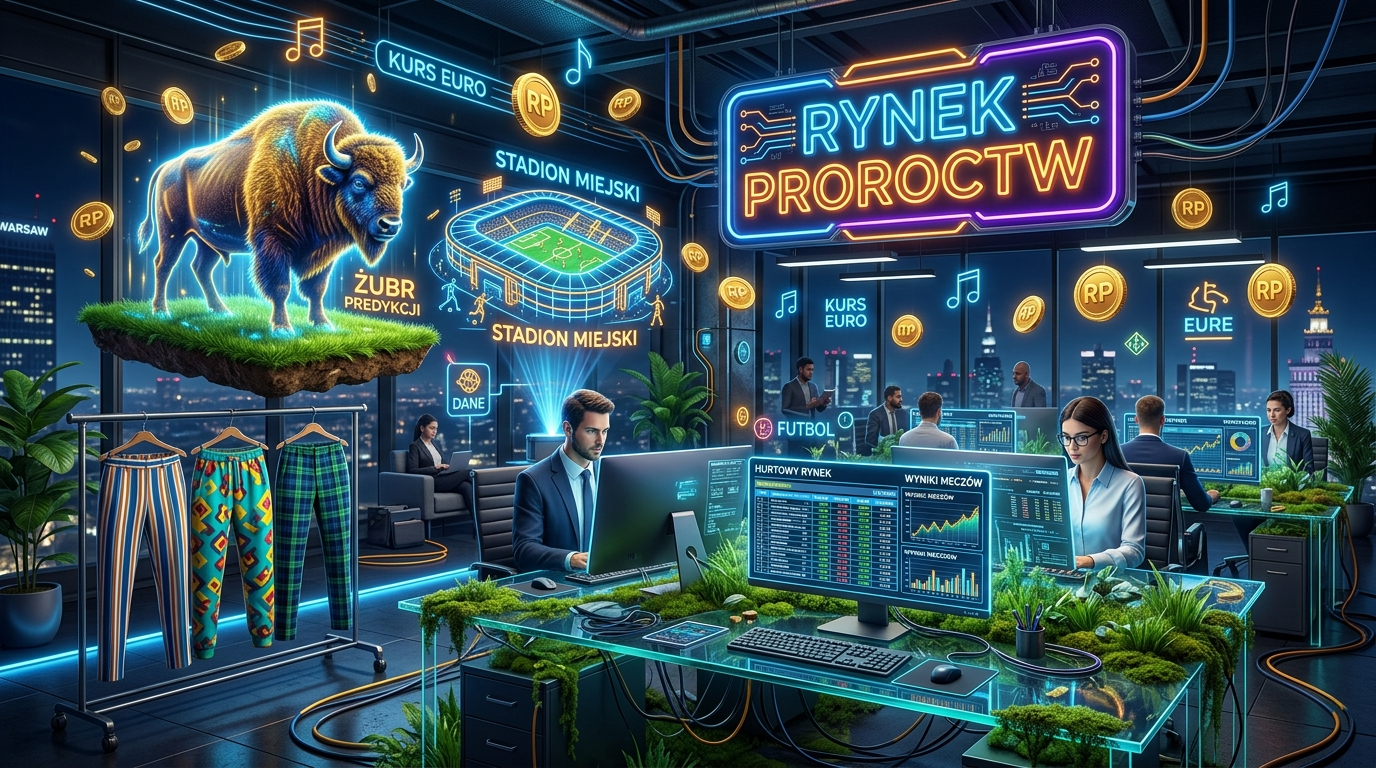
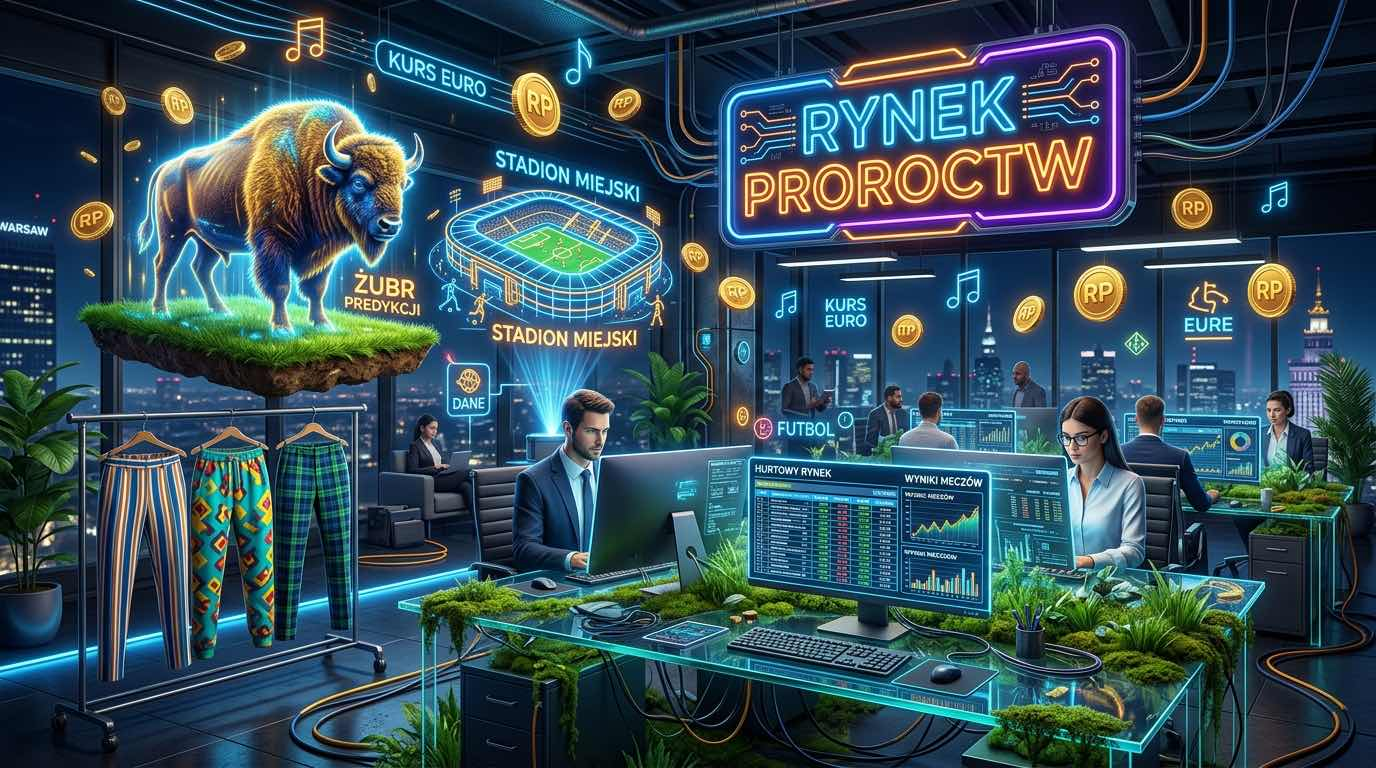
Cut three sources of per-page and per-event overhead
Investigated a report that the app felt slower. The shell itself had not
regressed — parse+execute and forced layout measure the same as two weeks
ago (53ms vs 55ms, 13.1ms vs 13.7ms), the DB is tiny, and there are no timer
or realtime-channel leaks. The cost was elsewhere:

Login hero: re-encoded 1,099,904 -> 150,735 bytes (86% smaller, same
1376x768). It is a decorative background at opacity .65 behind an overlay,
so the quality drop is not visible. More importantly it was a static
<img src> in the initial HTML, so the preload scanner fetched it during
parse — long before sb.auth.getSession() resolves — and every already
-logged-in visit paid for an image it never displays. It now loads from
data-src via showLoginScreen(); verified 0 network requests on the
logged-in path, image still renders on the logged-out one.

Presence heartbeat: chat_heartbeat() wrote last_seen on every 25s beat,
and chat_presence is realtime-published with the client on event:'*' — so
every beat was RLS-evaluated and broadcast to every connected client
(N users => N^2/25 msg/s), all discarded on arrival since chatOnPresence()
early-returns when `online` did not change. supabase/chat-presence-quiet.sql
moves last_seen to an unpublished chat_presence_beats table and makes
chat_presence writes flip-only. Already applied to prod; verified live that
beats churn while chat_presence.n_tup_upd stays flat, and that a user going
stale still produces exactly one flip. No frontend change needed.
[…]

diff --git a/index.html b/index.html
@@ -8067,7 +8067,8 @@
     <!-- Left Column: Hero Visual Showcase with customized company lore graphic -->
     <div class="login-hero-showcase">
       <div class="login-hero-overlay"></div>
-      <img src="./login_hero.jpg" alt="Rynek Proroctw G6 Custom Lore" class="login-hero-img">
+      <!-- src is promoted from data-src by showLoginScreen() — see the comment there. -->
+      <img data-src="./login_hero.jpg" alt="Rynek Proroctw G6 Custom Lore" class="login-hero-img">
       <div class="login-hero-content">
         <span class="hero-badge">🔮 Platforma Predykcyjna G6</span>
         <h2 class="hero-title">Witaj na firmowym parkiecie proroctw.</h2>
@@ -11023,6 +11024,13 @@ let markets = [];
 let tradesByMarket = {};
 let myPositionsByMarket = {};
 let marketRenderSeq = 0;
+// Set when a realtime market/trade change arrives while the Rynki tab is NOT
+// showing. renderMarkets() costs a `positions` round-trip plus a full rebuild of
+// every card (each with its own lightweight-charts instance), and every trade by
+// anyone used to trigger one on every client regardless of tab. The in-memory
+// state (markets[] / tradesByMarket) is still updated eagerly — only the render
+// is deferred, and switchTab('markets') flushes it. See flushMarketsIfDirty().
+let marketsDirty = false;
 let activeSide = 'YES';
 let activeMarket = null;
 let realtimeChannels = [];
@@ -11546,6 +11554,23 @@ function makeSpinner() {
   return el('div', { className: 'loading-center' }, el('div', { className: 'spinner' }));
 }
 
+// Reveal the login screen, fetching its hero image on first use.
+//
+// The hero is a purely decorative background (opacity .65 behind an overlay), but
+// it lives in the initial HTML — so the preload scanner used to fetch it during
+// parse, long before `sb.auth.getSession()` resolves. Every already-logged-in
+// visit therefore paid for an image it never displays. Holding the URL in
+// `data-src` and promoting it to `src` only here means returning players never
+// download it at all; the showcase's own `background: #090d16` is the intended
+// backdrop while it loads, so there is nothing to flash.
+function showLoginScreen() {
+  const heroImg = screenLogin.querySelector('.login-hero-img');
+  if (heroImg && !heroImg.getAttribute('src') && heroImg.dataset.src) {
+    heroImg.src = heroImg.dataset.src;
+  }
+  show(screenLogin);
+}
+
 // ── DOM refs ──────────────────────────────────────────────────────────────
 const screenLogin     = document.getElementById('screen-login');
 const screenApp       = document.getElementById('screen-app');
@@ -11854,7 +11879,7 @@ let forcePinUser = null;
 function startForcePin(user) {
   forcePinUser = user;
   hide(screenApp);
-  show(screenLogin);
+  showLoginScreen();
   switchLoginMode('forcepin');
   const nf = document.getElementById('force-new-pin');
   if (nf) nf.focus();
@@ -11886,7 +11911,7 @@ async function initSession(user) {
     await sb.auth.signOut();
     me = null;
     hide(screenApp);
-    show(screenLogin);
+    showLoginScreen();
     loginError.textContent = 'Nie udało się wczytać profilu. Spróbuj zalogować się ponownie.';
     await loadNickList();
     return;
@@ -11909,7 +11934,7 @@ async function doLogout() {
   resetChatState();
   teardownRealtime();
   await sb.auth.signOut();
-  me = null; markets = []; tradesByMarket = {}; myPositionsByMarket = {};
+  me = null; markets = []; tradesByMarket = {}; myPositionsByMarket = {}; marketsDirty = false;
   pokerState = null; pokerRealtimeReady = false; stopPokerClock();
   rouletteState = null; rouletteRealtimeReady = false; rouletteLastResultId = null; stopRouletteHeartbeat();
   rouletteLocalBets = null; if (rouletteFlushTimer) { clearTimeout(rouletteFlushTimer); rouletteFlushTimer = null; }
@@ -11931,7 +11956,7 @@ async function doLogout() {
   loginError.textContent = '';
   switchLoginMode('login');
   await loadNickList();
-  show(screenLogin);
+  showLoginScreen();
 }
 
 // ── Login event listeners ─────────────────────────────────────────────────
@@ -12609,6 +12634,7 @@ function switchTab(tab) {
   if (tab === 'markets') {
     show(tM); hide(tL); hide(tP); hide(tR); hide(tSl); hide(tWb); hide(tS); hide(tG);
     if (markets.length === 0) loadMarkets();
+    else flushMarketsIfDirty();   // catch up on trades that landed while away
   } else if (tab === 'leaderboard') {
     hide(tM); show(tL); hide(tP); hide(tR); hide(tSl); hide(tWb); hide(tS); hide(tG);
     loadLeaderboard();
@@ -13287,7 +13313,17 @@ async function loadMarkets() {
   await renderMarkets();
 }
 
+// Render the Rynki grid only if a realtime change landed while it was hidden.
+// Called on entry to the tab, which is the moment the deferred work becomes
+// worth paying for.
+function flushMarketsIfDirty() {
+  if (!marketsDirty) return;
+  marketsDirty = false;
+  renderMarkets();
+}
+
 async function renderMarkets() {
+  marketsDirty = false;
   const renderSeq = ++marketRenderSeq;
   const marketsSnapshot = markets.slice();
 
@@ -13879,17 +13915,19 @@ function setupRealtime() {
       if (payload.eventType === 'INSERT') {
         if (!markets.find(m => m.id === payload.new.id)) {
           markets.push(payload.new);
-          await renderMarkets();
+          if (activeTab === 'markets') await renderMarkets(); else marketsDirty = true;
         }
       } else if (payload.eventType === 'UPDATE') {
         const idx = markets.findIndex(m => m.id === payload.new.id);
         if (idx !== -1) markets[idx] = { ...markets[idx], ...payload.new };
         if (payload.new.resolved) {
+          // A resolution pays out, so the coin balance in the header really can
+          // change for anyone — that refresh stays unconditional.
           await refreshMeCoins();
-          await renderMarkets();
+          if (activeTab === 'markets') await renderMarkets(); else marketsDirty = true;
           return;
         }
-        updateCardProb(payload.new);
+        if (activeTab === 'markets') updateCardProb(payload.new); else marketsDirty = true;
       }
     })
     .on('postgres_changes', { event: 'INSERT', schema: 'public', table: 'trades' }, async payload => {
@@ -13906,6 +13944,9 @@ function setupRealtime() {
         amount: t.amount,
         shares: t.shares,
       });
+      // State above is kept current on every tab so the grid is correct the
+      // moment it is shown; the expensive render below is not.
+      if (activeTab !== 'markets') { marketsDirty = true; return; }
       updateCardChart(t.market_id);
       await renderMarkets();
     })
@@ -13989,9 +14030,14 @@ function setupRealtime() {
     .on('postgres_changes', { event: '*', schema: 'public', table: 'football_matches' }, () => {
       if (activeTab === 'football') loadFootball(false);
     })
-    .on('postgres_changes', { event: '*', schema: 'public', table: 'football_bets' }, async () => {
+    .on('postgres_changes', { event: '*', schema: 'public', table: 'football_bets' }, async payload => {
       if (activeTab === 'football') loadFootball(false);
-      await refreshMeCoins();
+      // football_bets is SELECT-able by everyone (`USING (true)`), so realtime
+      // hands every client every player's bets. Only MY row can move MY balance
+      // — placing a bet debits, settling credits — so refreshing the header on
+      // someone else's bet was a round-trip that could never change anything.
+      const row = payload.new || payload.old;
+      if (row && row.user_id === me?.id) await refreshMeCoins();
     })
     .on('postgres_changes', { event: '*', schema: 'public', table: 'canvas_pixels' }, (payload) => {
       applyCanvasPixelChange(payload.new);
@@ -35620,7 +35666,7 @@ startUpdateChecker();
     }
   } else {
     await loadNickList();
-    show(screenLogin);
+    showLoginScreen();
   }
 })();
 </script>

diff --git a/CLAUDE.md b/CLAUDE.md
@@ -45,7 +45,8 @@ Deep-dive design docs that don't need to load on every task live in `docs/` — 
 - `supabase/canvas.sql` — „Wspólne Płótno" collaborative pixel canvas; adds `canvas_pixels` (one shared 192×108 board, public SELECT) + `canvas_cooldowns` (own-row SELECT, now unused) tables, realtime publication on `canvas_pixels`, and the original `place_pixel(x,y,color)` SECURITY DEFINER RPC (its per-user cooldown is superseded — see `canvas-free-for-all.sql`). Idempotent (`CREATE TABLE IF NOT EXISTS` / `CREATE OR REPLACE`); the bounds (192×108) live in the RPC and mirror `CANVAS_W`/`CANVAS_H` in `index.html`
 - `supabase/canvas-free-for-all.sql` — run after `canvas.sql`; idempotent (`CREATE OR REPLACE`). Redefines `place_pixel` to drop the 2h-free/pay-1-coin split — every pixel is now free for every user, always; `canvas_cooldowns` is left in the schema but no longer read or written
 - `supabase/canvas-paint-log.sql` — run after `canvas-free-for-all.sql` + `lottery.sql`; idempotent. Adds `canvas_paint_log` (no client grants — written/read only by SECURITY DEFINER functions) and redefines `place_pixel` to insert one log row per paint, fixing the Loteria's "Wspólne Płótno" ticket count: `canvas_pixels` alone is last-write-wins, so a player's earlier painting days disappear once someone else paints over that pixel. `mundial_lottery_standings()`'s `canvas` CTE is redefined to union days from `canvas_pixels` (current-owner, the old lower-bound proxy) with `canvas_paint_log` (accurate going forward) so no one's existing tally regresses. Re-run after re-running either superseded file.
-- `supabase/chat.sql` — „Czat G6" office chat: an ICQ-style rail present on **every tab** (public room + 1-on-1 whispers + heartbeat presence). Adds `chat_messages` (`recipient_id IS NULL` ⇒ public room, non-null ⇒ whisper) + `chat_presence` (`last_seen`/`online`), both public-SELECT/no-client-write and realtime-published. Uses the **direct SECURITY DEFINER RPC** pattern from `canvas.sql` (no Edge Function): `chat_send(p_recipient, p_body)` (trim + 1000-char cap + ≥1s rate-limit — the only anti-spam throttle, like `record_arcade_score`), `chat_heartbeat()` (marks caller online + sweeps stale sessions offline, the presence analog of roulette's `evictStaleSeats`; returns the online id list), `chat_set_offline()` (immediate offline flip on logout), `chat_mark_read(p_peer)`. **RLS is the whisper boundary** — a message is SELECT-able only if it's public or `auth.uid() IN (sender_id, recipient_id)`, enforced for realtime delivery too, so a whisper reaches only the two parties (and can be sent to an OFFLINE user — stored, shown when they return). The offline→online / online→offline flip on `chat_presence.online` is the realtime signal `index.html` turns into ICQ „wszedł/wyszedł z sieci" notices. A minute `pg_cron` job (`chat_presence_sweep`) closes the last-user-leaves gap the heartbeat can't. **Constants mirrored in `index.html`:** `CHAT_STALE` (90s) ↔ `CHAT_HEARTBEAT_MS` (25s, client ≤ ⅓ rule), `CHAT_MAX_LEN` (1000), the ≥1s send throttle. Idempotent; run once via `supabase db query --linked`. Frontend: `initChat`/`chatIngest`/`chatOnPresence`/`chatHeartbeatPing` + the `#chat-rail` markup, wired into `showApp`/`doLogout` and the shared `db-changes` realtime channel.
+- `supabase/chat.sql` — „Czat G6" office chat: an ICQ-style rail present on **every tab** (public room + 1-on-1 whispers + heartbeat presence). Adds `chat_messages` (`recipient_id IS NULL` ⇒ public room, non-null ⇒ whisper) + `chat_presence` (`last_seen`/`online`), both public-SELECT/no-client-write and realtime-published. Uses the **direct SECURITY DEFINER RPC** pattern from `canvas.sql` (no Edge Function): `chat_send(p_recipient, p_body)` (trim + 1000-char cap + ≥1s rate-limit — the only anti-spam throttle, like `record_arcade_score`), `chat_heartbeat()` (marks caller online + sweeps stale sessions offline, the presence analog of roulette's `evictStaleSeats`; returns the online id list), `chat_set_offline()` (immediate offline flip on logout), `chat_mark_read(p_peer)`. **RLS is the whisper boundary** — a message is SELECT-able only if it's public or `auth.uid() IN (sender_id, recipient_id)`, enforced for realtime delivery too, so a whisper reaches only the two parties (and can be sent to an OFFLINE user — stored, shown when they return). The offline→online / online→offline flip on `chat_presence.online` is the realtime signal `index.html` turns into ICQ „wszedł/wyszedł z sieci" notices. A minute `pg_cron` job (`chat_presence_sweep`) closes the last-user-leaves gap the heartbeat can't. **Constants mirrored in `index.html`:** `CHAT_STALE` (90s) ↔ `CHAT_HEARTBEAT_MS` (25s, client ≤ ⅓ rule), `CHAT_MAX_LEN` (1000), the ≥1s send throttle. Idempotent; run once via `supabase db query --linked`. Frontend: `initChat`/`chatIngest`/`chatOnPresence`/`chatHeartbeatPing` + the `#chat-rail` markup, wired into `showApp`/`doLogout` and the shared `db-changes` realtime channel. ⚠ Its `chat_heartbeat()`/`chat_set_offline()`/`chat_presence_sweep` are **superseded by `chat-presence-quiet.sql`** — re-run that after re-running this.
+- `supabase/chat-presence-quiet.sql` — run after `chat.sql` (supersedes its `chat_heartbeat()`/`chat_set_offline()`/`chat_presence_sweep` cron; re-run after re-running that file); idempotent. Kills the presence heartbeat's realtime fanout (2026-08-07). `chat.sql` wrote `last_seen` on **every** 25s beat, and `chat_presence` is realtime-published with the client on `event:'*'` — so every beat was RLS-evaluated and broadcast to every connected client (**N users ⇒ N²/25 messages/sec**), all of it discarded on arrival since `chatOnPresence()` early-returns when `online` didn't change. Measured on prod: the realtime WAL query ran ~2×/s with nobody playing. The fix **splits the hot column out of the published table** — `last_seen` moves to `chat_presence_beats` (NOT published, no client grants, RLS-on-zero-policies), and `chat_presence` is written **only when `online` truly flips**, via a conditional `ON CONFLICT … DO UPDATE … WHERE chat_presence.online IS DISTINCT FROM true` (verified: 0 rows written while already online, 1 on a genuine flip/join). Steady-state WAL on the published table is now zero; realtime carries only real join/leave events. `chat_set_offline()` is likewise guarded so a double logout is a no-op. Sweeps use `COALESCE(beat.last_seen, presence.last_seen)` so pre-migration rows stay sweepable. **No frontend change** — the client still reads `chat_presence(user_id, online)`, subscribes to the same table, and `chat_heartbeat()` still returns the authoritative online list for `chatReconcileOnline()`. `chat_presence.last_seen` is deliberately kept as the fallback column.
 - `supabase/lottery-draw.sql` — the Loteria's **actual draw + payout**, plus the „🎰 Maszyna losująca" ceremony UI (2026-07-31). Run after `lottery.sql` + `canvas-paint-log.sql` + `lottery-fixes.sql`; idempotent. Calls (doesn't redefine) `mundial_lottery_standings()`. Adds `lottery_draws`/`lottery_draw_secrets` + three admin-gated RPCs: `lottery_draw_commit` → `lottery_draw_run` → `lottery_draw_cancel`. **Fairness model is COMMIT–REVEAL:** commit seals a secret seed and publishes only its hash; the draw mixes in public entropy (an operator `public_seed` + a `force` slider) so the operator visibly influences the outcome without being able to aim it. The draw is weighted-without-replacement over the frozen ticket snapshot; tiers 30/20/14/10/8/6% mirror `LOTTERY_TIERS`, plus a 12% dividend to every ticket holder. Payout mints via `coin_transactions` (`lottery_prize`/`lottery_dividend`), patched into the live `economy_stats()` `ledger_minted` list via a guarded `DO` block. ⚠ **No dry-run/preview by design** — one commit = one sealed draw (`lottery_draws_single_open_idx` enforces it); to rehearse, commit a throwaway. **Parity contract:** `lottery_roll()`, snapshot ordering, and tier percentages are mirrored in `index.html` (`lotRollFromHex`/`lotVerifyDraw`), which re-derives every roll client-side and shows ✓/⚠. The **„Na żywo"/„🧪 Test"** admin toggle runs the full ceremony against real tickets but draws winners client-side via `lotTestDraw` and never calls the server — zero `sb.rpc` calls, nothing is paid. Full ceremony/animation/physics design (ball-drum simulation, reveal ordering, colour assignment) is in docs/db-migrations.md.
 
 - `supabase/lottery-fixes.sql` — run **LAST** among the lottery ticket-counting files (after `lottery.sql`+`canvas-paint-log.sql`, re-run after re-running either); idempotent. Fixes two ticket-count bugs from a 2026-07-16 audit: **Targowisko overcount** (cancelled listings were credited — now filters `status='settled'`) and **Farma undercount** (sold/rotten lots erase history — now unions the immutable `coin_transactions` ledger). All other categories were audited correct.
@@ -98,6 +99,8 @@ Everything lives in `index.html`: HTML structure, all CSS (CSS variables for the
 1. `loadMarkets()` fetches markets, trades, and profiles in parallel then calls `renderMarkets()`.
 2. `renderMarkets()` fetches the current user's positions (`positions` view), then calls `buildMarketCard()` for each market.
 3. Realtime subscriptions on `markets` and `trades` tables update state and call targeted update helpers (`updateCardProb`, `updateCardChart`) instead of full re-renders where possible.
+4. **Those handlers only touch the DOM while the Rynki tab is showing** (2026-08-07). `renderMarkets()` costs a `positions` round-trip plus a rebuild of every card (each with its own lightweight-charts instance), and it used to run on **every trade by anyone, on every client, on every tab** — so a busy market made the farm/casino tabs janky for people not even looking at it. The in-memory state (`markets[]`, `tradesByMarket`) is still updated eagerly on every event so the grid is correct the instant it is shown; only the render is deferred, via a `marketsDirty` flag that `switchTab('markets')` flushes with `flushMarketsIfDirty()`. **Keep that invariant when adding handlers: update state unconditionally, gate rendering on `activeTab`.** A market *resolution* still calls `refreshMeCoins()` unconditionally — that one really does move everyone's balance.
+5. Likewise `football_bets` only calls `refreshMeCoins()` when `payload.new.user_id === me.id`. That table is `SELECT`-able by everyone (`USING (true)`), so realtime hands every client every player's bets, and only your own row can move your own balance.
 
 ### Auth
 
@@ -253,7 +256,7 @@ The **grid bounds (192×108) are duplicated** between `supabase/canvas.sql` (the
 
 An always-on, ICQ-styled chat docked to the **left edge**, present on **every tab** — the `#chat-rail` markup lives inside `#screen-app` but **outside every `#tab-*` div** (right after `</nav>`), so `switchTab()` never unmounts it and it's naturally hidden until login. Collapses to a small „🌼 Czat" launcher pill (with a total-unread badge) so it never blocks gameplay. Three surfaces: **Pokój** (one shared public room), **Kontakty** (the full roster minus the hidden admin account, online-first sorted, per-contact unread badges, 🌼 green/grey status flowers), and a **whisper thread** (private 1-on-1, sendable even when the peer is offline).
 
-Backend is `supabase/chat.sql` (see the file list above) — the **direct SECURITY DEFINER RPC** pattern (like `canvas.sql`), not an Edge Function. Presence is a `last_seen` heartbeat exactly like roulette seats: `chatHeartbeatPing()` calls `chat_heartbeat()` every `CHAT_HEARTBEAT_MS` (25s) while the tab is visible (plus on `visibilitychange`); a user is online until `last_seen` is older than the server's `CHAT_STALE` (90s), and the `chat_presence.online` flip is what the frontend turns into ICQ „wszedł/wyszedł z sieci" toasts + a local (non-persisted) system line in the room, with an optional off-by-default WebAudio beep. **RLS is the whisper boundary** (public OR `auth.uid() IN (sender, recipient)`), enforced for realtime too. Delivery rides the shared `db-changes` channel: `chat_messages` INSERT → `chatIngest()` (de-dupes by id, bumps unread, toasts), `chat_presence` `*` → `chatOnPresence()` (diffs vs the local `chatOnline` set, so `last_seen`-only heartbeat ticks are ignored). Messages render via `el()` (text nodes — no innerHTML), so bodies are XSS-safe. Frontend state (`chatRoster`/`chatOnline`/`chatRoomMsgs`/`chatThreads`/`chatUnread`) is reset in `doLogout()` after a best-effort `chat_set_offline()`. Keep the mirrored constants (`CHAT_HEARTBEAT_MS`↔`CHAT_STALE` ⅓ rule, `CHAT_MAX_LEN`, ≥1s send throttle) in sync with `supabase/chat.sql`.
+Backend is `supabase/chat.sql` (see the file list above) — the **direct SECURITY DEFINER RPC** pattern (like `canvas.sql`), not an Edge Function. Presence is a `last_seen` heartbeat exactly like roulette seats: `chatHeartbeatPing()` calls `chat_heartbeat()` every `CHAT_HEARTBEAT_MS` (25s) while the tab is visible (plus on `visibilitychange`); a user is online until `last_seen` is older than the server's `CHAT_STALE` (90s), and the `chat_presence.online` flip is what the frontend turns into ICQ „wszedł/wyszedł z sieci" toasts + a local (non-persisted) system line in the room, with an optional off-by-default WebAudio beep. **RLS is the whisper boundary** (public OR `auth.uid() IN (sender, recipient)`), enforced for realtime too. Delivery rides the shared `db-changes` channel: `chat_messages` INSERT → `chatIngest()` (de-dupes by id, bumps unread, toasts), `chat_presence` `*` → `chatOnPresence()` (diffs vs the local `chatOnline` set, so `last_seen`-only heartbeat ticks are ignored). Messages render via `el()` (text nodes — no innerHTML), so bodies are XSS-safe. Frontend state (`chatRoster`/`chatOnline`/`chatRoomMsgs`/`chatThreads`/`chatUnread`) is reset in `doLogout()` after a best-effort `chat_set_offline()`. Keep the mirrored constants (`CHAT_HEARTBEAT_MS`↔`CHAT_STALE` ⅓ rule, `CHAT_MAX_LEN`, ≥1s send throttle) in sync with `supabase/chat.sql`. The 25s beat itself writes only to the unpublished `chat_presence_beats` table (`chat-presence-quiet.sql`), so `chat_presence` — and therefore realtime — sees a write **only** on a genuine online/offline flip; don't "simplify" that conditional upsert back into an unconditional one.
 
 ### Farma (farm grid + card economy)
 
